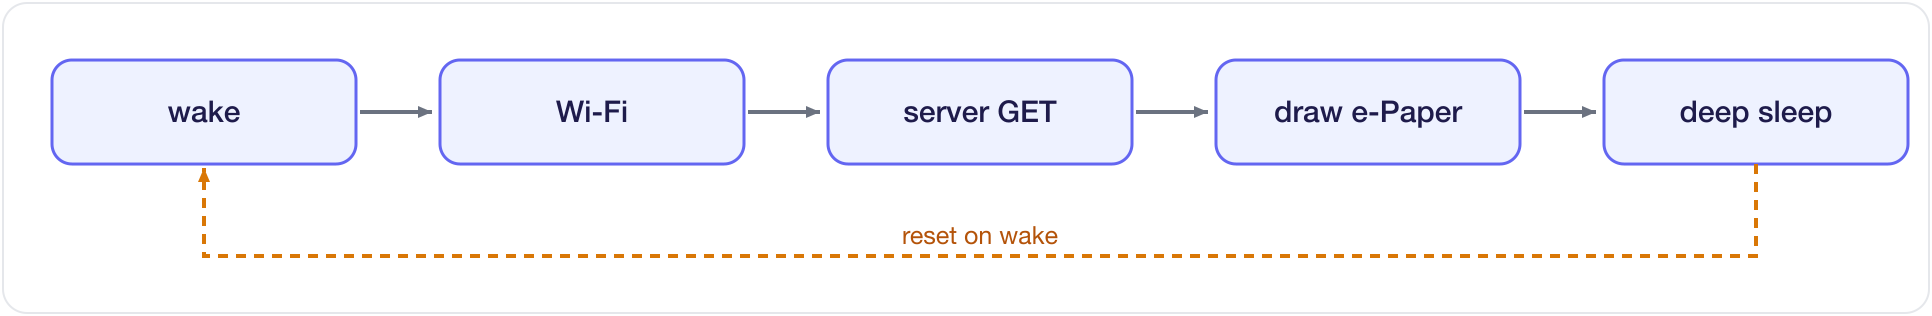
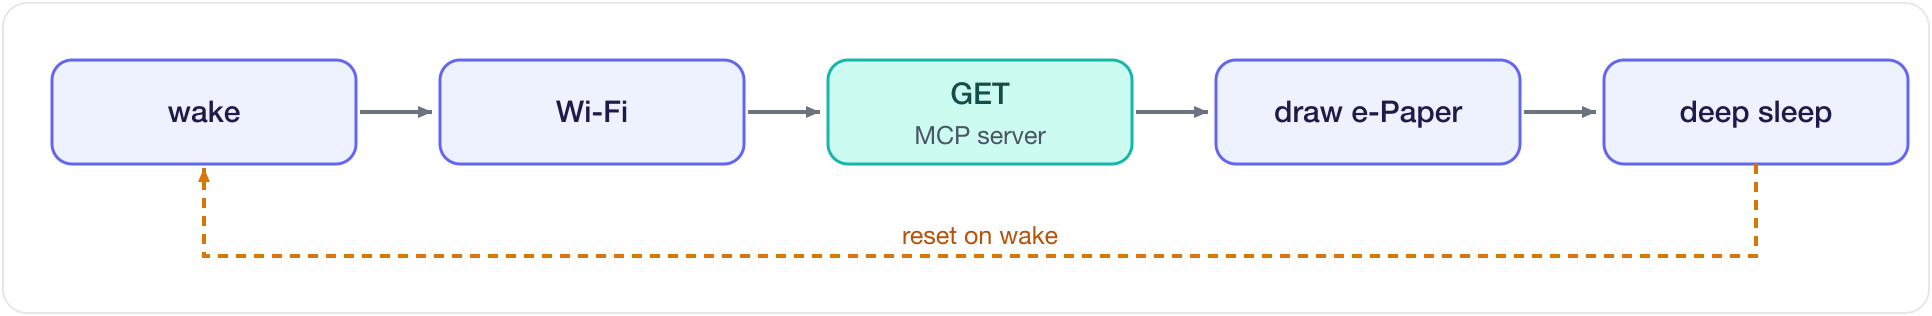
Clarify MCP server in runtime diagram; link the emcp server repo

Changed region(s): [[0.4037, 0.1709, 0.5901, 0.5411]]

diff --git a/README.ko.md b/README.ko.md
@@ -72,5 +72,7 @@ src/
 - 날씨 조건 문자열(`뇌우`·`눈`·`비`…) = 서버 응답 매칭용, 코드에 한국어 유지
 
 ## 서버 (MCP)
+날씨·LED 백엔드 = 별도 프로젝트: **[seung-gu/emcp](https://github.com/seung-gu/emcp)**
+
 - 기기: 평문 HTTPS GET 엔드포인트만
 - 동일 서버 MCP 노출 → AI(ChatGPT 등) 조회·제어

diff --git a/README.md b/README.md
@@ -67,5 +67,7 @@ src/
 ```
 
 ## Server (MCP)
+The weather/LED backend is a companion project: **[seung-gu/emcp](https://github.com/seung-gu/emcp)**.
+
 - The device only hits a plain HTTPS GET endpoint
 - The same server is exposed over MCP, so an AI client (e.g. ChatGPT) can query and control it
